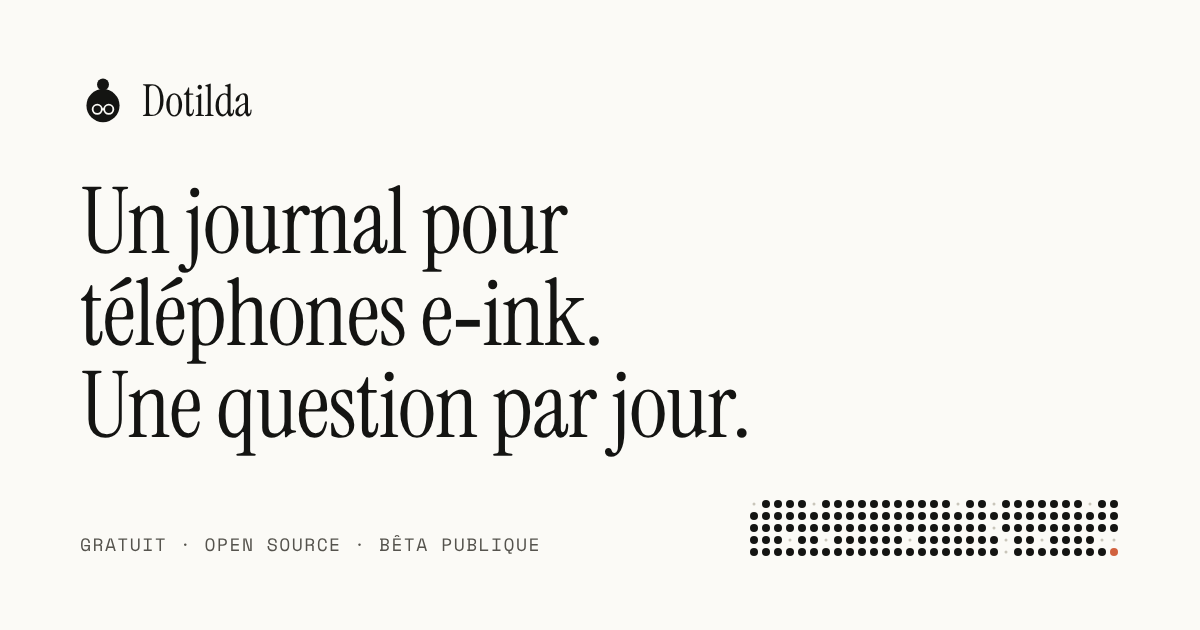
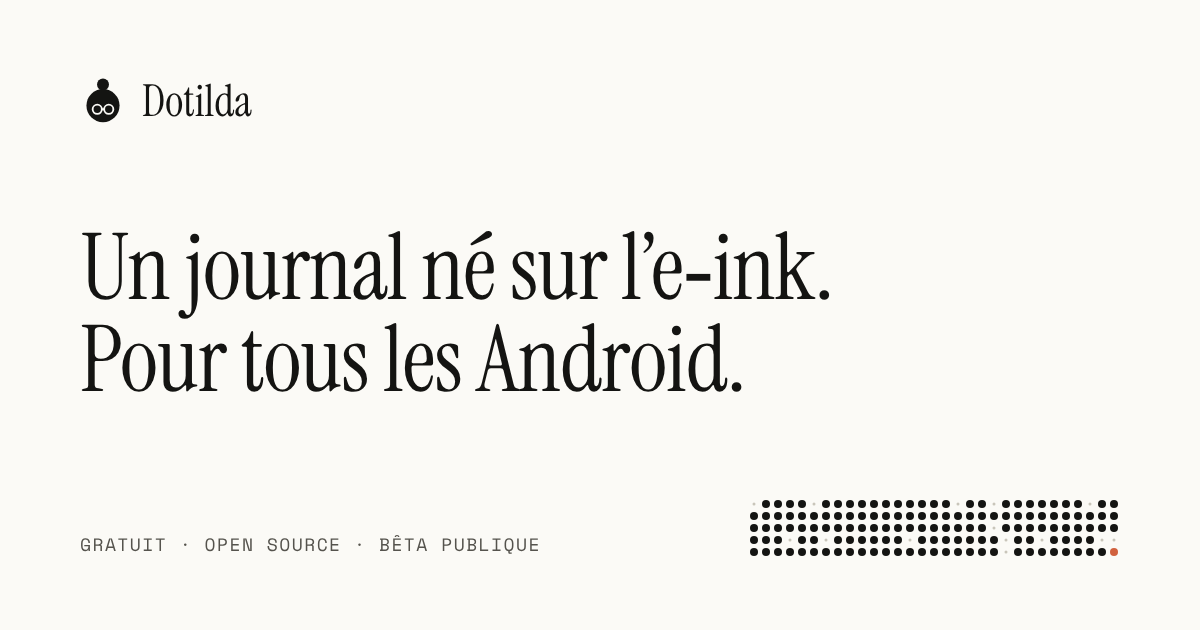
Positioning: born on e-ink, for any Android
Dotilda works on any Android 11+ phone, tablet or e-reader; the site said
"for your Kompakt" almost everywhere. Now the title reads "A journal born on
e-ink. For any Android.", the buttons say "for Android", the install steps
start with any Android device (then Obtainium, then the Kompakt with Mudita
Center), the promise is "Calm on any screen", and the FAQ, descriptions,
structured data and share images follow. The Kompakt mockup stays, captioned
"Designed first for the Mudita Kompakt". All five languages.

Claude-Session: https://claude.ai/code/session_01G1EGSok3Ek98zi1XzLYMwD

Changed region(s): [[0.0617, 0.2714, 0.7092, 0.7238]]

diff --git a/src/styles/global.css b/src/styles/global.css
@@ -357,3 +357,6 @@ footer .www:hover svg{border-bottom-width:8px;padding-bottom:2px}
 footer .brand-link{display:inline-block;margin-top:.6rem;white-space:nowrap}
 .cta-card .lang-note,.cta-card .lang-pill{color:var(--paper)}
 @media (max-width:560px){.cta-main{width:100%;justify-content:center;text-align:center}}
+/* Under the phone: the Kompakt is where Dotilda was designed first, not the only place she lives. */
+.device{margin:0;display:grid;justify-items:center;gap:1rem;min-width:0}
+.device-caption{font-family:var(--mono);font-size:.75rem;letter-spacing:.06em;text-transform:uppercase;color:var(--ink-2);text-align:center}

diff --git a/README.md b/README.md
@@ -69,7 +69,7 @@ The page follows AIDA, in this order:
 
 | | Section | What it does |
 | --- | --- | --- |
-| Attention | hero | A plain title (a journal for e-ink phones, one question a day) and Dotilda's playground: she asks in her bubble, the visitor answers as in the app (a line, a word, a choice, a moon), changes the question, goes on to the next day and watches this month fill up. Poke her and she plays along. The ways to get her come right after the hero, not in it: a big ink card says what the buttons do (`cta`), then the buttons. |
+| Attention | hero | A plain title (a journal born on e-ink, for any Android: the Kompakt is where Dotilda was designed first, not a requirement) and Dotilda's playground: she asks in her bubble, the visitor answers as in the app (a line, a word, a choice, a moon), changes the question, goes on to the next day and watches this month fill up. Poke her and she plays along. The ways to get her come right after the hero, not in it: a big ink card says what the buttons do (`cta`), then the buttons. |
 | Interest | `#ritual` | The ritual in three steps. |
 | Interest | `#inside` | Eight real screens of the released app, in a carousel to swipe, drag or page through. |
 | Interest | `#shapes` | The eight ways to answer, and "Try one" for a few more questions. |
